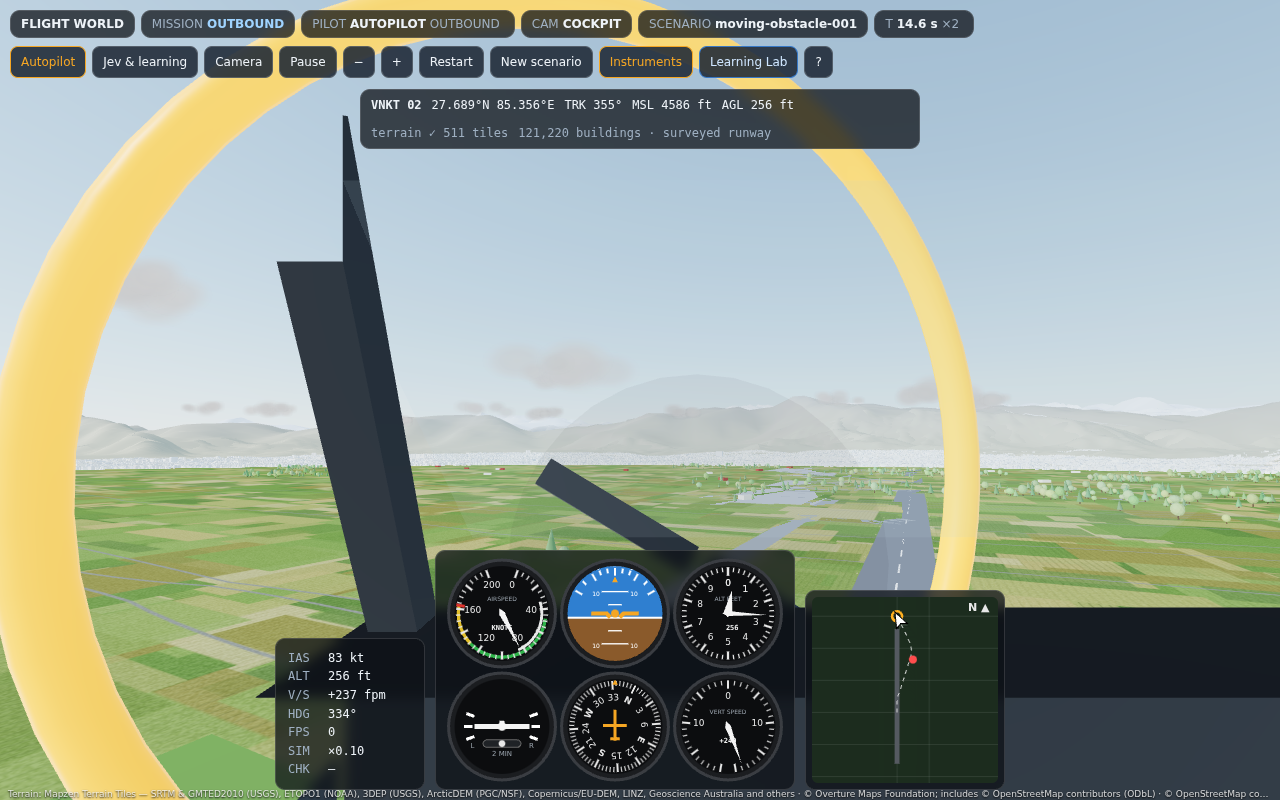
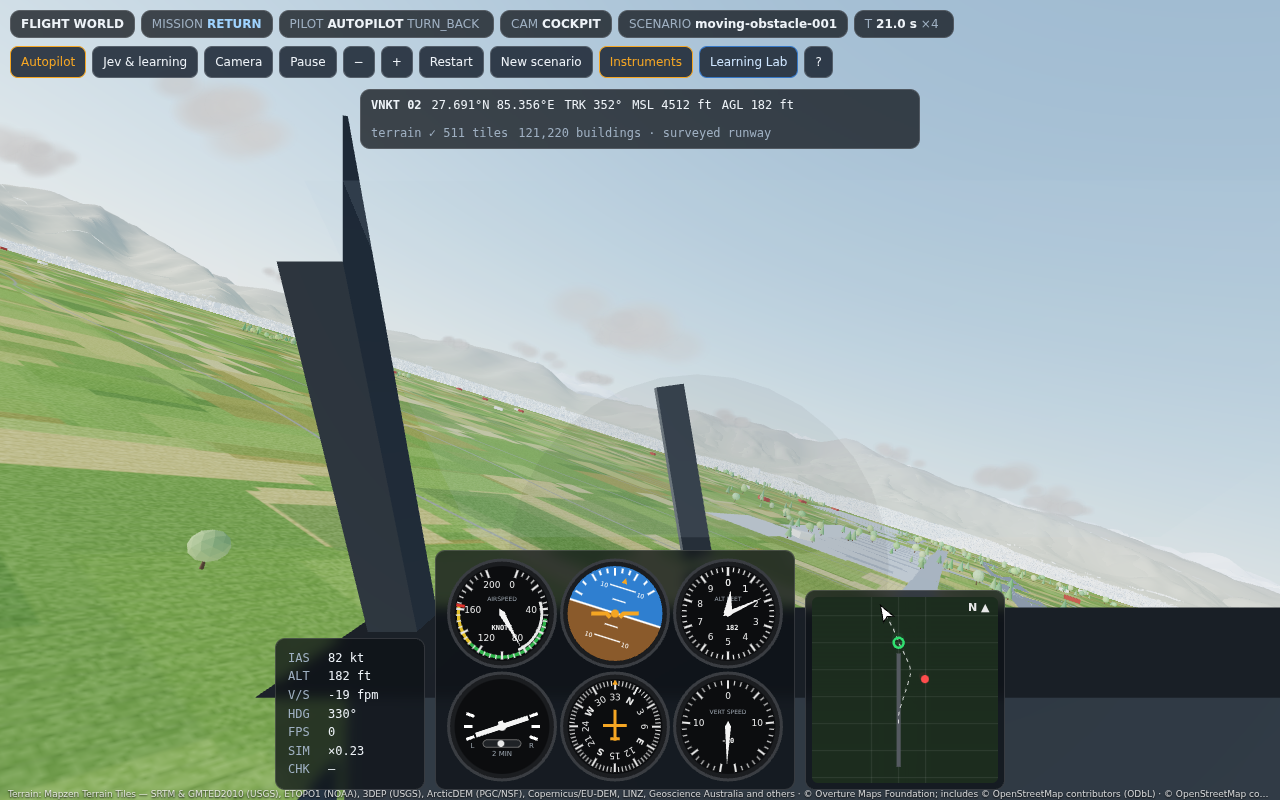
QA: Kathmandu mission lands among real buildings; screenshots
Claude-Session: https://claude.ai/code/session_012FNuFH5oe4wnHGhyuWwJYx

diff --git a/.gstack/qa-reports/qa-report-flight-world-2026-09-28-phase2-3.md b/.gstack/qa-reports/qa-report-flight-world-2026-09-28-phase2-3.md
@@ -39,7 +39,8 @@ code path after the HTTP request is the one used in production.
 | Badge reports buildings and "surveyed runway" | pass |
 | Autopilot mission lands at VOMM among real buildings | pass |
 | `features=off`: terrain only, no buildings | pass |
-| Kathmandu: 121,220 buildings, surveyed runway 02 | pass |
+| Kathmandu: 121,220 buildings, surveyed runway 02 (21.95°) | pass |
+| Autopilot mission lands at Kathmandu, city and mountains in view | pass |
 | No console errors | pass |
 
 Screenshots: `screenshots/features/`.
